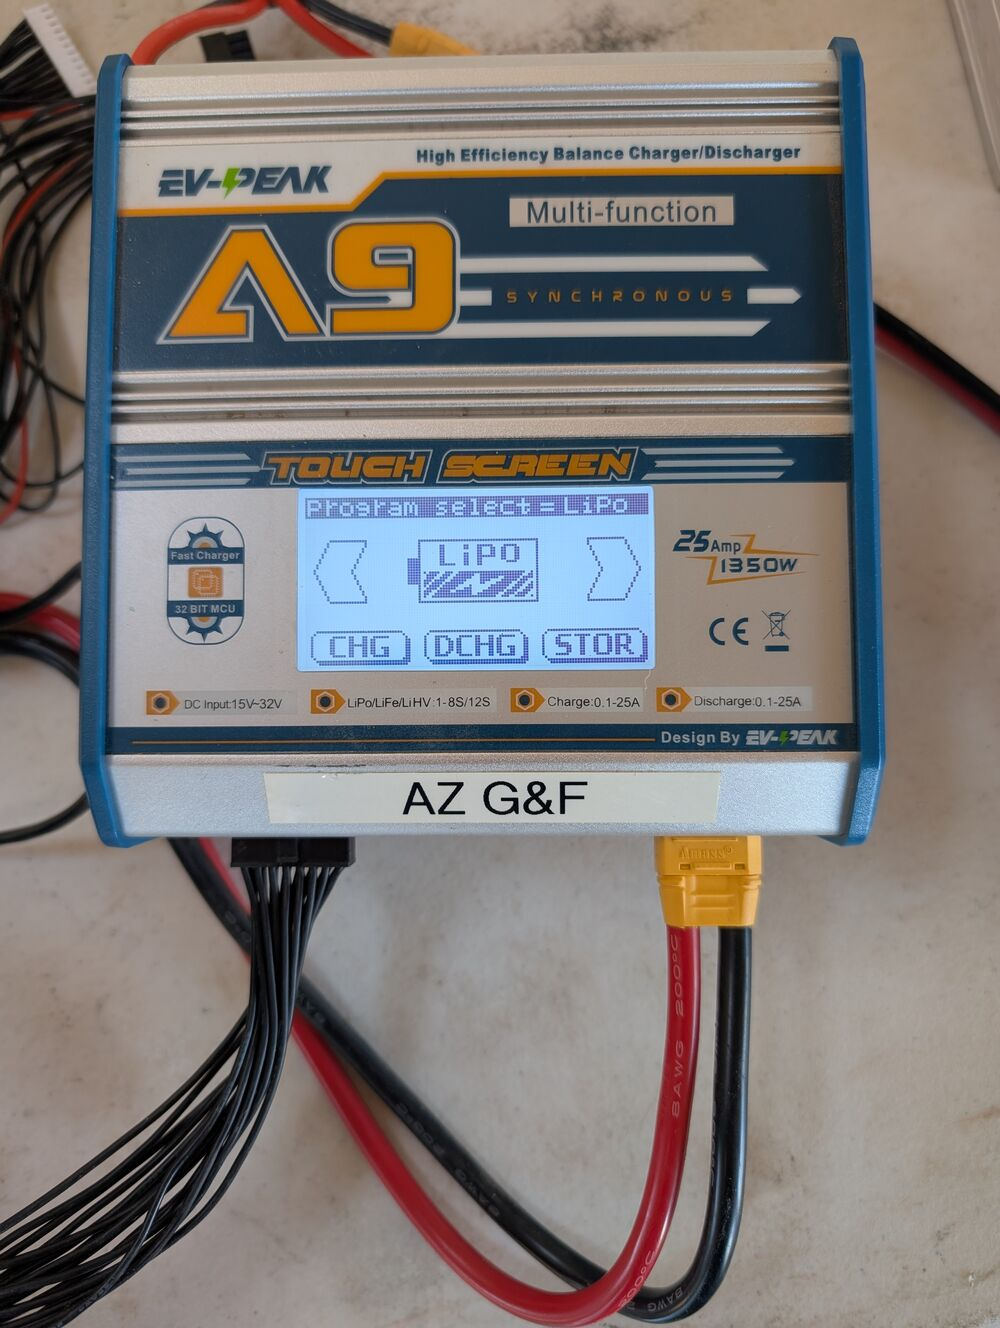
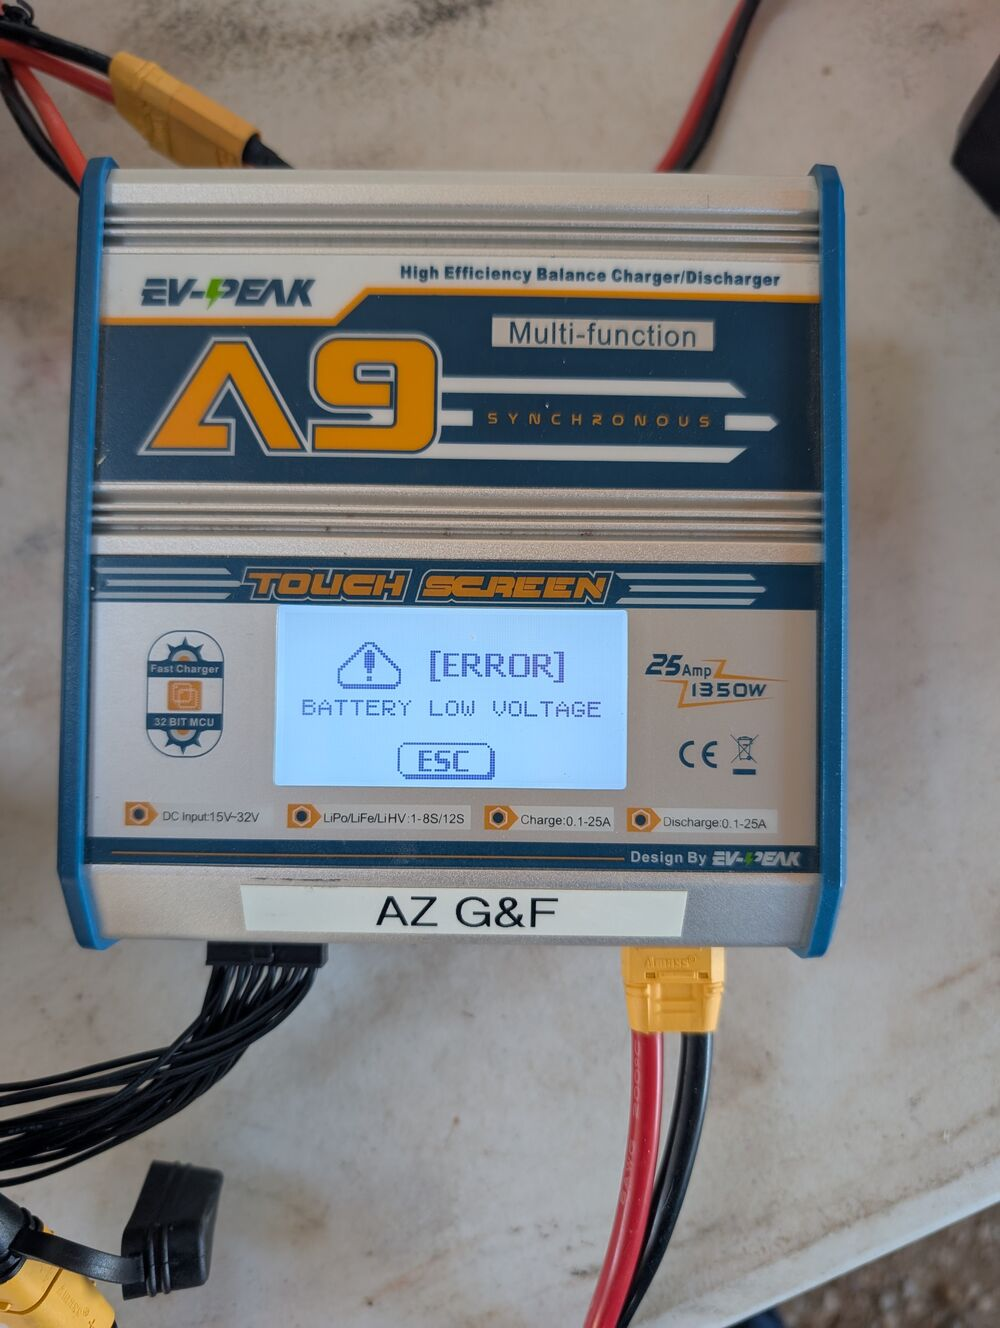
more updates

diff --git a/docs/repair.md b/docs/repair.md
@@ -1,4 +1,4 @@
-.# Repair
+# Repair
 
 <a rel="license" href="http://creativecommons.org/licenses/by/4.0/"><img alt="Creative Commons License" style="border-width:0" src="https://i.creativecommons.org/l/by/4.0/88x31.png" /></a><br />This work is licensed under a <a rel="license" href="http://creativecommons.org/licenses/by/4.0/">Creative Commons Attribution 4.0 International License</a>.
 
@@ -6,9 +6,33 @@
 
 Dust is the enemy of electric motors and electronics.
 
-All parts were wiped with a microfiber cloth. Electronics and motors were blasted with compressed air and wiped with Q-tips. 
+All storage bins were washed and dried, spare parts were wiped with a dry microfiber cloth. 
+
+Electronics and motors were blasted with compressed air and wiped with Q-tips or microfiber cloth.
+
+Strongly recommend dust abatement for keeping motors and connections dust free or clean routinely after flights. 
 
 ## Inspection
+
+### Batteries
+
+The 16,000 mAh Tattu batteries were allowed to completely discharge over the last few years (they were likely manufactured and purchased in 2019 and last used in 2020). This is not good. LiPo batteries require being put into a "storage" charge mode and cycled every 3-6 months. The prolonged storage of the batteries may have resulted in degredation of the cells.
+
+![charger_6](assets/photos/charger_6.jpg)
+
+![charger_5](assets/photos/charger_5.jpg)
+
+Because the Tattu batteries were completely discharged, I used the battery charger to 'trickle' charge a couple hundred mAh back into the batteries. I then used the 'balance' option to level the cells.
+
+While doing this, X of the batteries failed to take any charge into their cells. 
+
+I was able to recover X batteries and charged them to 3.7v - 3.8v for 'storage' mode.
+
+Two of the three Floureon 5500 mAh batteries exhibited 'swelling'. 
+
+[Swelling](https://www.pknergy.com/news/why-is-lipo-battery-swollen/) occurs in LiPo batteries when they are left in a fully charged or overcharged state for a long period of time, with age, or prolonged harsh environmental conditions. 
+
+Swollen batteries should not be used in flight, as they are a fire hazard. Strongly recommend disposing of these batteries and buying new ones. 
 
 ### Carbon Body
 
@@ -32,9 +56,15 @@ The soldering of the PDB on Mini-me was concerning, some of the hot and ground w
 
 ### Power Distribution Board
 
-The PDB was replaced on Mini-me.
+I inspected the PDB on the Mini-me drone and found that it had signs of arcing (melted plastic, burns) 
+
+![pdb_1](assets/photos/pdb_1.jpg)
+
+The PDB was replaced on Mini-me with the unopened PX4 PDB board. I soldered removed the cables from the old PDB and soldered them to the new board. I tested the current for all of the connections before connecting the 5500 mAh battery.
 
 ### ESCs
+
+When I connected the motors and ESCs to the new PDB board, one of the ESCs (Motor 7) immediately began to smoke. I disconnected and removed the ESC and replaced it.
 
 Wiring for the ESCs was incomplete. 
 
@@ -48,10 +78,27 @@ The wiring for the Motors to the PDB for Ardupilot is:
 
 ### Propellers
 
-I inspected all of the Nakoda 30" propellers. 
+I inspected all of the Nakoda 30" T-Motor Carbon Fiber (CF) 30 inch 10.5 degree propellers. 
 
 There are both left handed (counter-clockwise) and right handed (clockwise) propellers.
 
 Several of the propellers are damaged. Most have minor damage, which may cause vibration and drag. Several have major damage, and one is broken. I used a paint marker to indicate which props are failing or should not be used. 
 
 ![prop1](assets/photos/prop_1.jpg) ![prop2](assets/photos/prop_2.jpg)
+
+Important: these props appear to be out of production, and are of limited availability from online retailers, costs are $280 to $335 per pair. 
+
+### Telemetry Radio
+
+There was no telemetry radio delivered by AZGFD. 
+
+The inventory list has a USB Antenna for attaching to a field laptop for the Ground Control Station, but no transmitter for the drone.
+
+I have ordered a new Telemetry radio.
+
+
+### Remote ID
+
+[Remote ID](remoteid.md) is required as of March 2024.
+
+I have ordered a Remote ID transmitter.

diff --git a/README.md b/README.md
@@ -1,52 +1,16 @@
-# NAKODA
+# nakoda
 
-Documentation for sUAS rebuild of Arizona Game and Fish Department (AZGFD) heavy lift sUAS "Nakoda"
+## Build MkDocs Material Documentation Pages
 
-[![YouTube](http://i.ytimg.com/vi/MqV0MHsP57E/hqdefault.jpg)](https://www.youtube.com/watch?v=MqV0MHsP57E)
+```
+git clone https://github.com/tyson-swetnam/nakoda
+cd nakoda
+pip install -r requirements.txt
+mkdocs serve
+```
 
-## Background
+## Mission Planner
 
-In 2019 AZGFD commissioned Arizona State University to develop a heavy lift sUAS (<20kg) that could deliver medicated food pellets to Gunnisan Prairie dogs in and around Blackfooted Ferret recovery areas.
+### Firmware installation instructions
 
-The sUAS crashed several times, during development and its first operational flight. It was later shelved and has been in storage for ~5 years. 
-
-In January the sUAS and all of its support equipment were delivered to me at University of Arizona.
-
-My goal is to first assess the aircraft to determine whether it is (1) salvage or (2) can be repaired and flown again. 
-
-## Equipment List
-
-[Copy over list from AZGFD here]
-
-## Repair 
-
-### Develop Documentation
-
-We need to create basic documentation for the maintenence, battery protocol, storage, and flight operations of the sUAS.
-
-A Laptop needs to be provisioned with the flight software. 
-
-I will create a MkDocs Material website here, that will be accessable to the AZGFD team over the internet. 
-
-#### Maintenence
-
-The sUAS and all associated hardware needs to be cleaned and inspected for damage or deterioration. 
-
-#### Battery Protocol
-
-Lithium batteries degrade over time, the current set of batteries are over 5 years old, and may not have been stored properly or in environmentally stable space. 
-
-#### Storage
-
-The sUAS came in multiple rubber and plastic storage boxes, the boxes need to be cleaned
-
-#### Flight Operations
-
-##### Preflight
-
-Batteries must be cared for and discharged before long storage
-
-Batteries must be charged and prepared for pre-flight
-
-Remote control must be charged
-
+### Mission Flight Plans

diff --git a/docs/about.md b/docs/about.md
@@ -12,11 +12,11 @@ In 2019 AZGFD commissioned Arizona State University to develop a heavy lift sUAS
 [![YouTube](http://i.ytimg.com/vi/MqV0MHsP57E/hqdefault.jpg)](https://www.youtube.com/watch?v=MqV0MHsP57E)
 
 
-The UAS crashed several times, both during development and its early operational flights. After its last crash it was later shelved and has been in storage for ~5 years. 
+The sUAS crashed several times, both during development and its early operational flights. After its last crash it was later shelved and has been in storage for ~5 years. 
 
 ## Equipment 
 
-In January 2025 the Nakoda UAS, its "mini-me" test drone, and all of its support equipment were delivered to me at University of Arizona.
+In January 2025 the Nakoda sUAS, its "mini-me" test sUAS, and all of its support equipment were delivered to me at University of Arizona.
 
 AZGFD dropped off the drone with all of its associated support equipment and storage boxes. See [Equipment](equipment.md) for the list of items. 
 
@@ -30,8 +30,9 @@ See [Repair Pages](repair.md) for details on the repair.
 
 ## Documentation
 
-I am creating and curating these documentation pages for posterity, and for AZGFD staff who will receive the drone and have to operate it.
+Nakoda did not arrive with any set of instructions for how to operate it, how to use or program the remote controls, how to charge or maintain the batteries, or how to use a Ground Control Station (GCS) with autonomous mission planning software. 
 
-Nakoda did not arrive with any set of instructions for how to operate the drone, how to use the remote control, how to charge or maintain the batteries, or how to use a Ground Control Station (GCS) with autonomous mission planning software. 
+I am creating and curating these documentation pages for posterity, and for AZGFD staff who will operate and maintain it. 
+
 
 

diff --git a/docs/flight.md b/docs/flight.md
@@ -2,17 +2,44 @@
 
 <a rel="license" href="http://creativecommons.org/licenses/by/4.0/"><img alt="Creative Commons License" style="border-width:0" src="https://i.creativecommons.org/l/by/4.0/88x31.png" /></a><br />This work is licensed under a <a rel="license" href="http://creativecommons.org/licenses/by/4.0/">Creative Commons Attribution 4.0 International License</a>.
 
-## Aircraft preparation
+## Pre-flight SOPs
+
+Before leaving the station, it is a good idea to inventory all of the critical components to the mission plan.
+
+These include, but are not limited to the following items
 
 ### Batteries Check
 
+Ensure that all flight batteries are charged.
+
+Ensure that Remote Controller battery is charged.
+
+Ensure that back-up power charger is packed.
+
+Ensure that generator is gassed up, or Electric battery bank is charged. 
+
 ### Prop installation
 
-The props must be installed appropriately for their left-handed (counter-clockwise) and right-handed (clockwise)
+Inspect all props for damage. Never fly with a cracked or deeply chipped propeller blade.
+
+Ensure that additional props are packed. 
+
+If props are installed before leaving, ensure they are all installed appropriately for their left-handed (counter-clockwise) and right-handed (clockwise) positions.
 
 ![propeller_diagram](assets/photos/ardupilot_octo_motor_diagram.jpg)
 
-## Taranis RC Controls
+## Taranis RC Control Bag
+
+Ensure that Remote Control is packed
+
+Ensure that Lanyard is packed.
+
+Ensure that 110v charger cable is packed. 
+
+
+## Pre-take-off SOP
+
+
 ## Manual Modes
 
 ### Altitude (Alt) Hold

diff --git a/docs/battery.md b/docs/battery.md
@@ -2,9 +2,9 @@
 
 <a rel="license" href="http://creativecommons.org/licenses/by/4.0/"><img alt="Creative Commons License" style="border-width:0" src="https://i.creativecommons.org/l/by/4.0/88x31.png" /></a><br />This work is licensed under a <a rel="license" href="http://creativecommons.org/licenses/by/4.0/">Creative Commons Attribution 4.0 International License</a>.
 
-Drones rely on Lithium Polymer (LiPo) batteries, for their high energy density to weight ratios. 
+Drones use Lithium Polymer (LiPo) batteries for their high energy density to weight ratio.
 
-The good news is that Lithium battery technology has greatly advanced in the last 5-years, and prices have come down considerably.
+Lithium polymer battery technology has greatly advanced in the last 5-years, and prices have come down considerably.
 
 ## Nakoda Batteries
 
@@ -13,6 +13,8 @@ Nakoda has 4 [Tattu Plus 16,000 mAh](https://genstattu.com/tattu-agri-16000mah-4
 Each battery weighs ~2kg (!)
 
 Charging each battery using a standard charger takes XXX minutes
+
+| Voltage | Capacity | Amps | 
 
 ## Mini-me Batteries
 
@@ -25,6 +27,8 @@ The Floureon batteries appear to be out of production. There are numerous other 
 [![Youtube](http://i.ytimg.com/vi/QopBnRw9BNM/hqdefault.jpg)](https://youtu.be/QopBnRw9BNM?si=K2xqnQ4D6QsUjUxm)
 
 ## Battery Health
+
+All of the Nakoda batteries arrived with zero charge on them. This is bad. 
 
 [Tattu Manuals](https://www.genstattu.com/content/Ordinary.pdf) suggests charging and discharing the batteries very 3-months. 
 

diff --git a/docs/remoteid.md b/docs/remoteid.md
@@ -1,0 +1,21 @@
+# Remote ID
+
+<a rel="license" href="http://creativecommons.org/licenses/by/4.0/"><img alt="Creative Commons License" style="border-width:0" src="https://i.creativecommons.org/l/by/4.0/88x31.png" /></a><br />This work is licensed under a <a rel="license" href="http://creativecommons.org/licenses/by/4.0/">Creative Commons Attribution 4.0 International License</a>.
+
+## What is Remote ID?
+
+Remote ID is the FAA's required signal broadcasting for all drones weighing more than 255 grams. 
+
+Remote ID is required as of March 2024.
+
+All drones, including DIY drones, must use Remote ID while in operation. 
+
+[https://pilotinstitute.com/homebuilt-remote-id-rules/](https://pilotinstitute.com/homebuilt-remote-id-rules/)
+
+## Getting an ID
+
+[https://www.faa.gov/uas/getting_started/remote_id](https://www.faa.gov/uas/getting_started/remote_id)
+
+## Setting up the Remote ID radio on Pixhawk4
+
+[https://docs.px4.io/main/en/peripherals/remote_id.html](https://docs.px4.io/main/en/peripherals/remote_id.html)

diff --git a/docs/firmware.md b/docs/firmware.md
@@ -12,9 +12,18 @@ We are going to set up the ArduPilot Software on the PixHawk 4
 
 [Taranis Plus](https://www.frsky-rc.com/taranis-x9d-plus-2019/)
 
-## Pixhawk Firmware
+## Pixhawk4 Firmware
 
-Follow directions on Ardupilot website, https://ardupilot.org/planner/docs/common-loading-firmware-onto-pixhawk.html
+### MissionPlanner
+Follow directions on Ardupilot website, [https://ardupilot.org/planner/docs/common-loading-firmware-onto-pixhawk.html](https://ardupilot.org/planner/docs/common-loading-firmware-onto-pixhawk.html){target=_blank}
+
+### QGroundControl
+
+Follow directions on DroneCode QGroundControl website, [https://docs.qgroundcontrol.com/master/en/qgc-user-guide/setup_view/firmware.html](https://docs.qgroundcontrol.com/master/en/qgc-user-guide/setup_view/firmware.html){target=_blank}
+
+[![YouTube](http://i.ytimg.com/vi/BNzeVGD8IZI/hqdefault.jpg)](https://www.youtube.com/watch?v=BNzeVGD8IZI)
+
+
 
 Select ArduCopter V3.0.1 Octa 
 

diff --git a/docs/operations.md b/docs/operations.md
@@ -2,3 +2,6 @@
 
 <a rel="license" href="http://creativecommons.org/licenses/by/4.0/"><img alt="Creative Commons License" style="border-width:0" src="https://i.creativecommons.org/l/by/4.0/88x31.png" /></a><br />This work is licensed under a <a rel="license" href="http://creativecommons.org/licenses/by/4.0/">Creative Commons Attribution 4.0 International License</a>.
 
+## Standard Operating Procedure (SOP)
+
+Here we provide a brief SOP on how to operate the Nakoda and Kit drones. 
